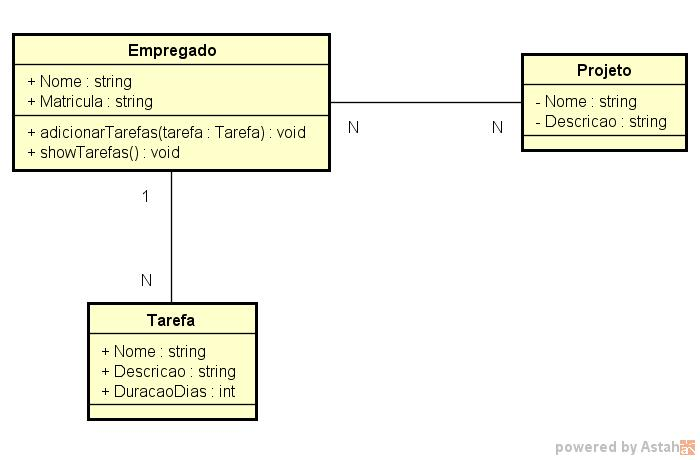
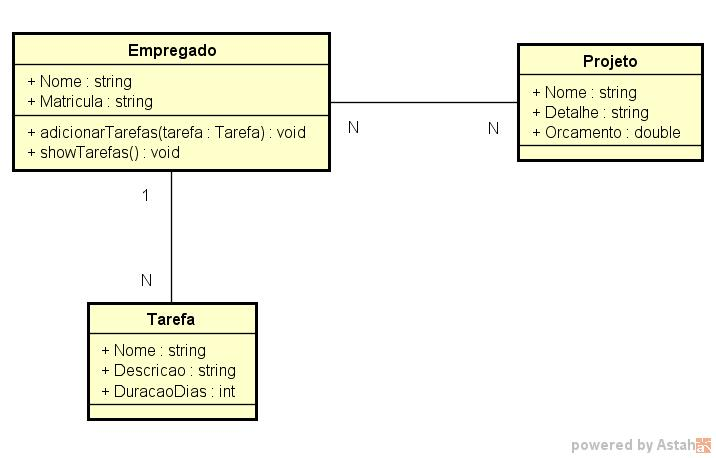
-

Changed region(s): [[0.0, 0.0611, 0.99, 0.917], [0.78, 0.9476, 0.99, 1.0]]

diff --git a/GestorProjetosTarefas_Console/Projeto.cs b/GestorProjetosTarefas_Console/Projeto.cs
@@ -1,0 +1,29 @@
+using System;
+using System.Collections.Generic;
+using System.Linq;
+using System.Text;
+using System.Threading.Tasks;
+
+namespace GestorProjetosTarefas_Console
+{
+    internal class Projeto
+    {
+        public string Nome {  get; set; }
+
+        public string Detalhe { get; set; }
+
+        public double Orcamento { get; set; }
+
+        public Projeto(string nome, string detalhe, double orcamento)
+        {
+            Nome = nome;
+            Detalhe = detalhe;
+            Orcamento = orcamento;
+        }
+
+        public override string ToString()
+        {
+            return $@"Projeto: {Nome} , detalhe: {Detalhe}, orçamento : {Orcamento}";
+        }
+    }
+}
